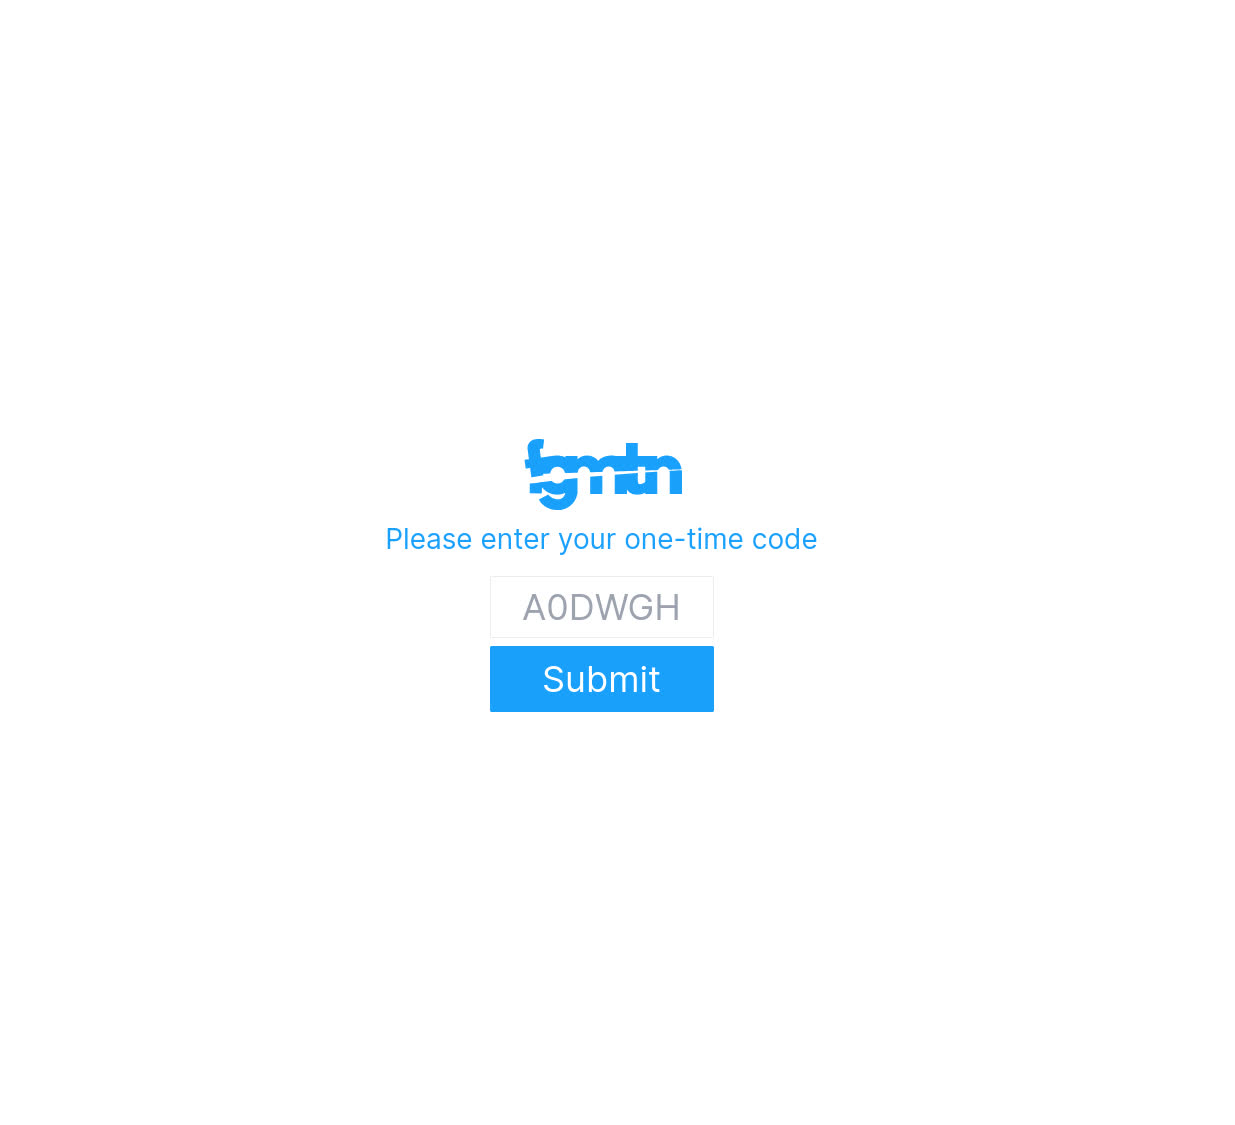
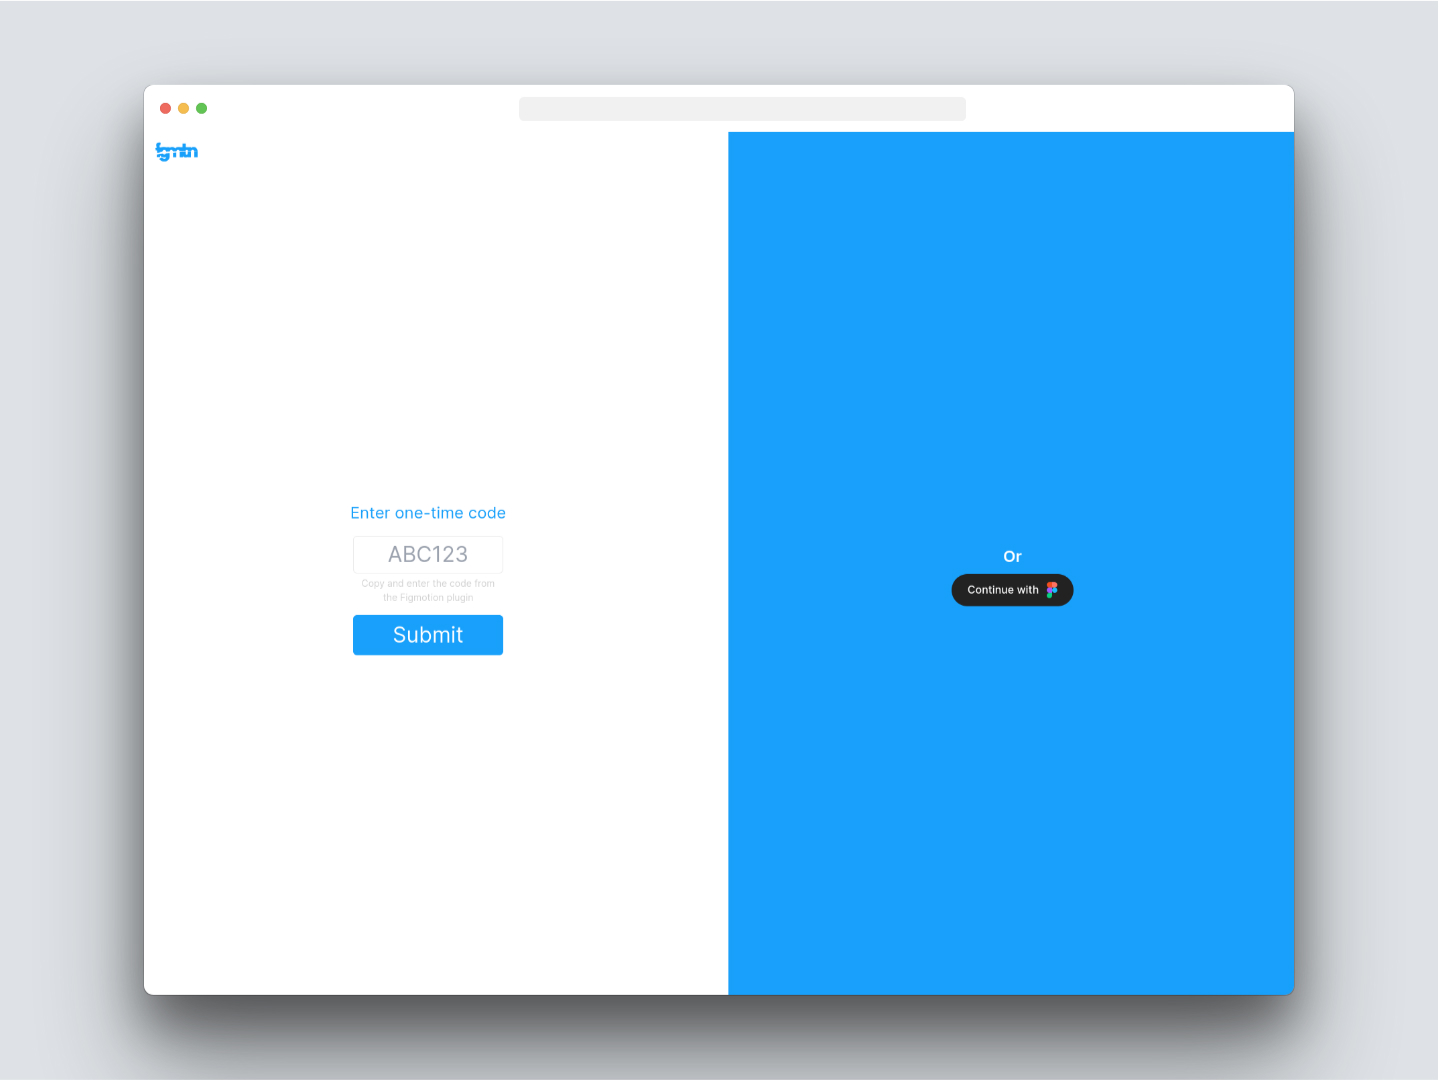
feat: minor updates to connection explanation

diff --git a/docs/getting-started/index.md b/docs/getting-started/index.md
@@ -17,18 +17,19 @@ Once the plugin launches you will see small plugin window with a one-time use co
 ![Plugin with one time code](./img/opening-the-plugin-02.jpg)
 ![Standalone app](./img/opening-the-plugin-03.jpg)
 
-Once both are open you can copy the code, enter it in the "one-time code" field and press `Enter` or hit `Submit`. This will connect the app to the plugin. To complete the handshake you will need to return to the plugin and press `Step 2`.
+Once both are open you can copy the code, enter it in the "one-time code" field and press `Enter` or hit `Submit`. Alternatively you can also login with your Figma account. This method will keep you logged in so you do not need to re-enter the one time code each time. This will connect the timeline app to the plugin.
 
-You should notice a new screen in the standalone app displaying another one-time code to complete the handhsake. You can copy this final code and enter it in the plugin window to complete the handshake.  
+nce this is done you will see the plugin has completed the handshake.
 
-![Standalone app with final code](./img/opening-the-plugin-04.jpg)
-![Plugin to complete handshake](./img/opening-the-plugin-05.jpg)
-
-Once this is done you will see the plugin has completed the handshake.
+> **Note**  
+> Although the distinct user interface might seem unfamiliar at first, it operates in the same way as the previous "in-app" experience. Additionally, it offers the advantage of placing the timeline anywhere on your screen, or even on a separate screen. Despite being a standalone app, it remains linked to your Figma window, just like the plugin.
 
 ![Plugin ready](./img/opening-the-plugin-06.jpg)
 
 Additionally, the standalone app will either display a frame selection dialog or it will simply display your animation timeline (if you had a frame pre-selected in Figma during the handshake).
+
+> **Note**  
+> When using the Frame selection dialog, it will display only the "top-level" frames. If you plan to animate a child frame, ensure that you select it during the connection setup.
 
 ![Frame selection dialog](./img/opening-the-plugin-07.jpg)
 ![Standalone timeline](./img/opening-the-plugin-08.jpg)
